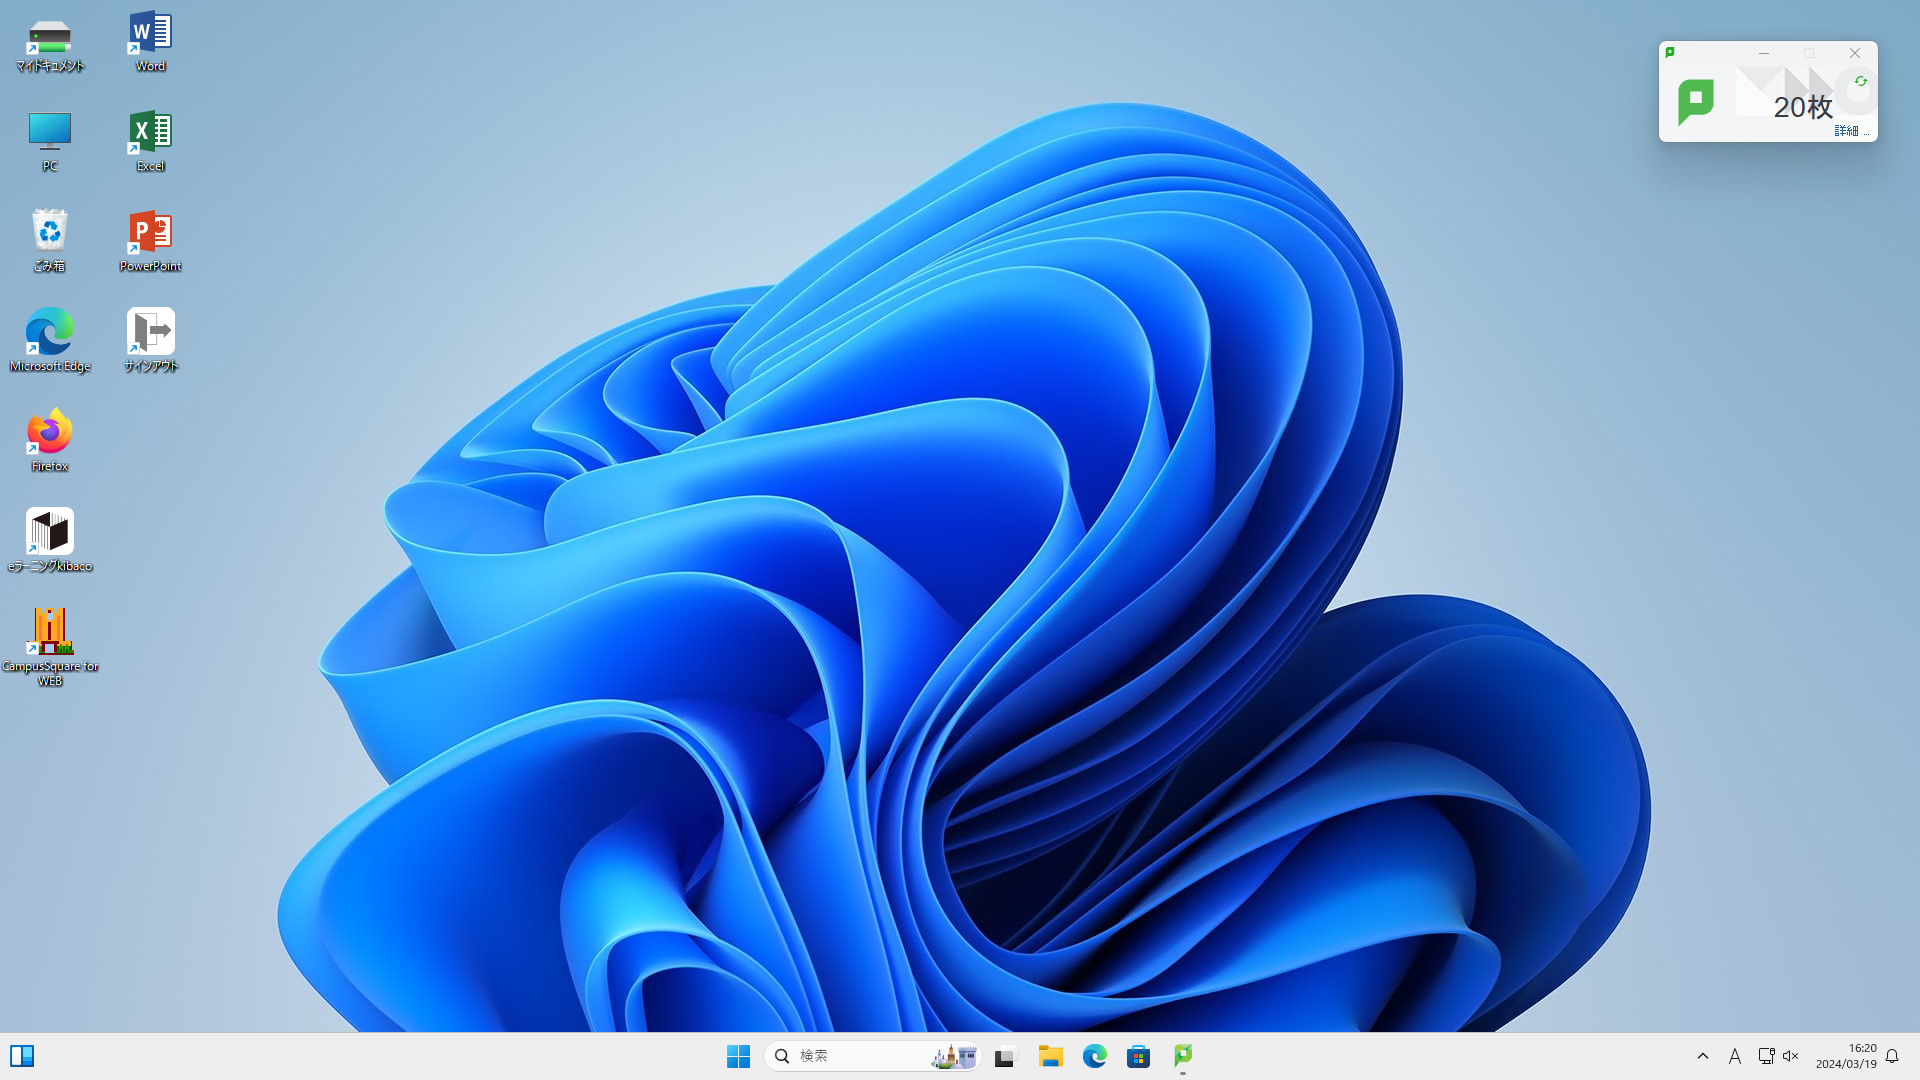
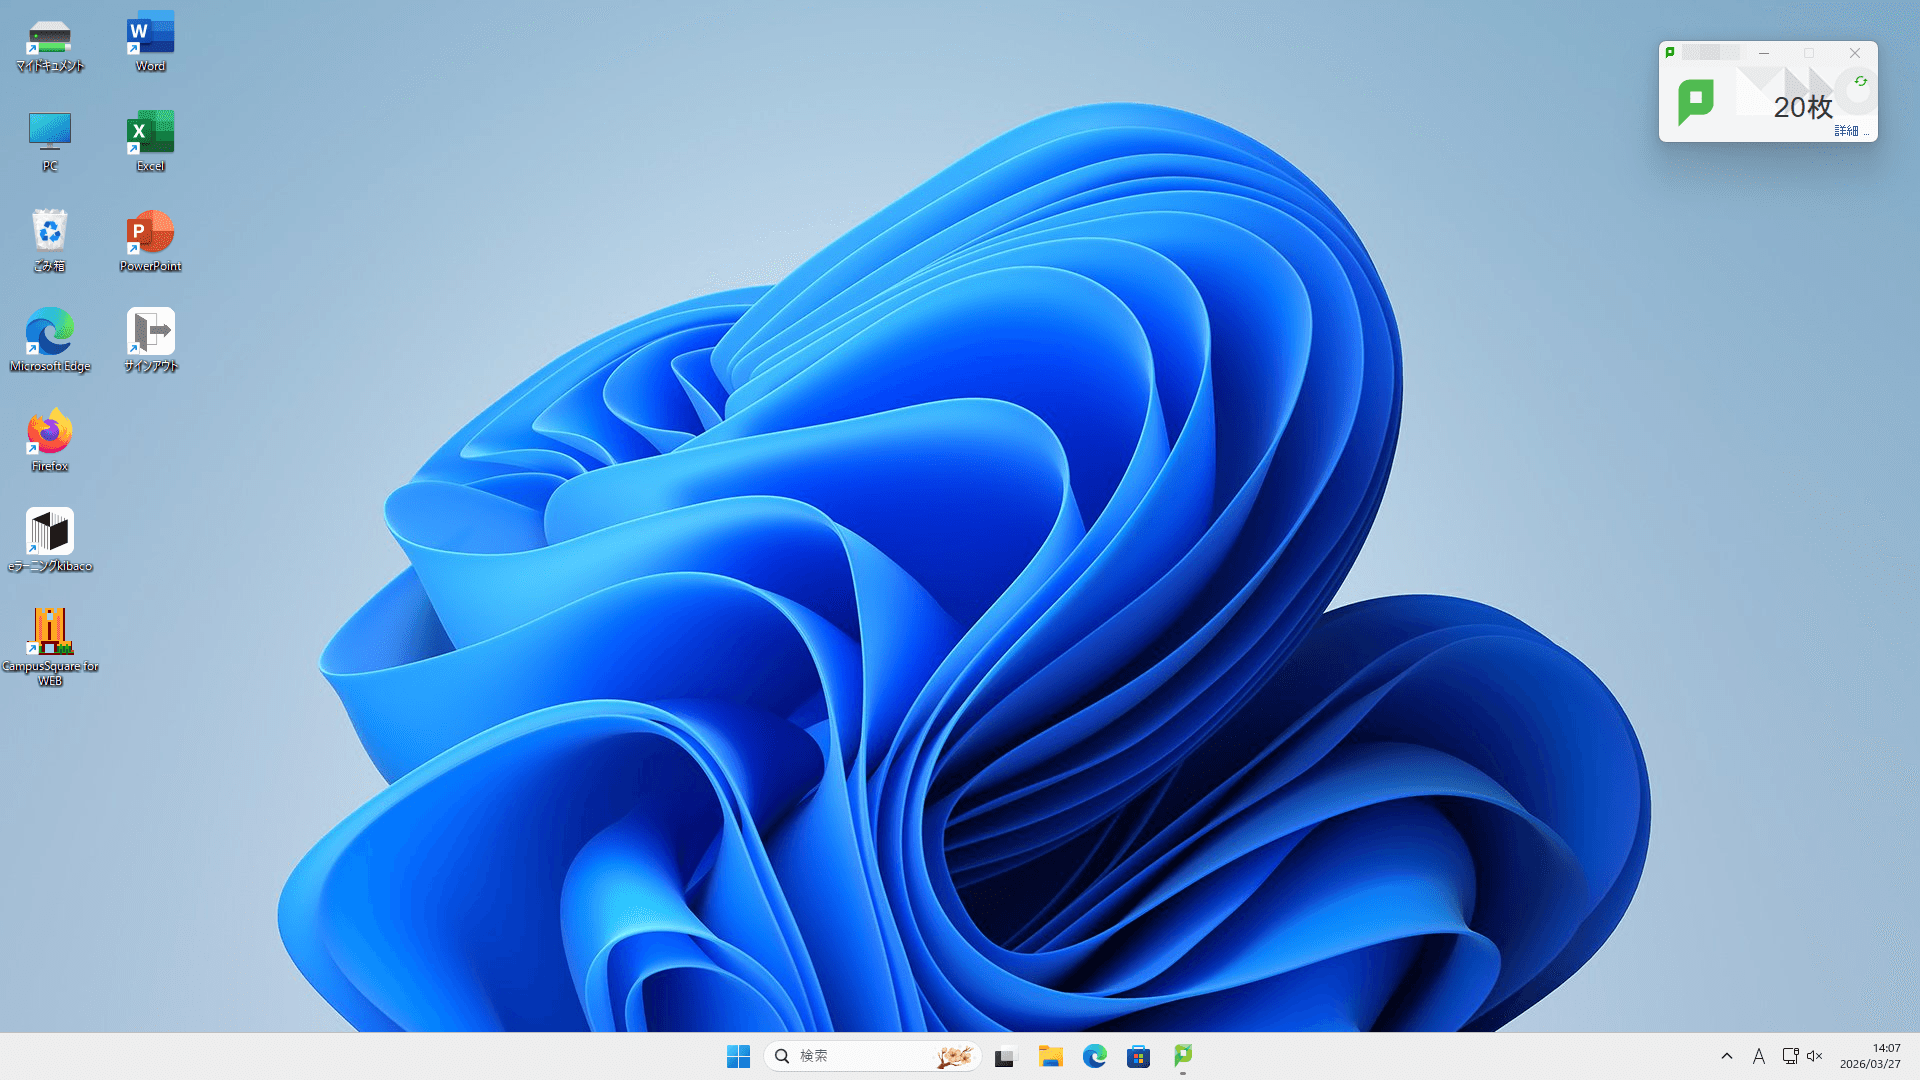
348-351
320教室のWindows化に伴い，文章を一部訂正しました．
また，TMU-WiFi導入に伴い，無線LAN接続にかかわる部分の説明を修正しました．
その他，kibaco, TMUNER等の仕様変更に伴い，一部のスクショを更新しました．

diff --git a/contents/infolit/03/index.md b/contents/infolit/03/index.md
@@ -42,7 +42,7 @@ purposes:
 電子メールはとても重要な連絡手段となっています。
 大学においても、教育・学習、研究や課外活動に限らず、様々な用途で電子メールが使われています。
 
-そのため、電子メールの使い方を身につけるだけではなく、正しいマナーで使うことが求められています。
+そのため、電子メールの使い方を身に付けるだけではなく、正しいマナーで使うことが求められています。
 電子メールに関して決められたルールというものはありませんが、マナーとして重要になるポイントをいくつか紹介します。
 
 #### 宛名、署名を必ずつける
@@ -87,7 +87,7 @@ purposes:
 
 このほか、インターネットを利用する上で知っておいた方がよいことがまとめられているサイトも多くありますので、ぜひ読んでみてください。
 
-  - [国民のための情報セキュリティサイト](http://www.soumu.go.jp/joho_tsusin/security/)（総務省）
+  - [国民のためのサイバーセキュリティサイト](https://www.soumu.go.jp/main_sosiki/cybersecurity/kokumin/index.html)（総務省）
 
 
 ウェブ情報検索
@@ -98,7 +98,7 @@ purposes:
 1990年代後半からウェブ（ワールド・ワイド・ウェブ、World Wide Web、WWW、Web）は爆発的な勢いで拡大していき、ウェブで提供される情報も膨大な量となっていきました。
 その大量にある情報の中から必要な情報を抽出するために、「情報検索」の技術が注目されました。
 
-ここからはその情報検索について学び、ウェブブラウザ（ウェブで提供される情報を閲覧するアプリケーション）を実際に利用しながら必要な情報を手に入れるためのスキルを身につけていきましょう。
+ここからはその情報検索について学び、ウェブブラウザ（ウェブで提供される情報を閲覧するアプリケーション）を実際に利用しながら必要な情報を手に入れるためのスキルを身に付けていきましょう。
 
 ### ウェブブラウザ利用と初期設定ホーム
 

diff --git a/contents/infolit/04/index.md b/contents/infolit/04/index.md
@@ -31,10 +31,10 @@ purposes:
   3. 図書を探す【検索実習】
   4. 論文（記事）を探す【検索実習】
 
-今回の実習では扱いませんが、探している図書が本学の図書館にない場合は、全国の大学図書館の蔵書を検索できる「CiNii Books」や、国立国会図書館の蔵書を検索できる「NDL-OPAC」などを利用できます。
+今回の実習では扱いませんが、探している図書が本学の図書館にない場合は、全国の大学図書館の蔵書を検索できる「CiNii Books」や、国立国会図書館の蔵書を検索できる「NDLサーチ」などを利用できます。
 
   - [CiNii Books](http://ci.nii.ac.jp/books/)
-  - [NDL-OPAC](http://opac.ndl.go.jp/)
+  - [NDLサーチ](https://ndlsearch.ndl.go.jp/)
 
 また、本学の図書館にあるコンピュータから利用できるサービスのひとつに、朝日新聞の全文検索などがあります。
 <br>詳しい使い方は、図書館刊行物の『学術情報をオンラインで利用しよう』を参照してください。

diff --git a/contents/infolit/01/index.md b/contents/infolit/01/index.md
@@ -136,7 +136,7 @@ Mac 環境の場合は、[次講][]で説明するとおり、 Windows 環境で
 パソコンで作業をする時には、その目的にあったアプリケーションを使用します。
 ここでは、Windows11環境を使用する際のアプリケーションの起動と終了の方法について説明します。
 今回は、例として"メモ帳"という名前のアプリケーションを使用します。
-画面下部の Windows ロゴのボタンをクリックしてメニューを開き、[すべてのアプリ]をクリック、スクロールで[め]の項まで移動し、[メモ帳]を開きます。（以降、「[すべてのアプリ]-[メモ帳]をクリック」のように記します）。
+画面下部の Windows ロゴのボタンをクリックしてメニューを開き、[すべて]をクリック、スクロールで[め]の項まで移動し、[メモ帳]を開きます。（以降、「[すべて]-[メモ帳]をクリック」のように記します）。
 
 {% screenshot notepad_2.png "メモ帳の起動" %}
 
